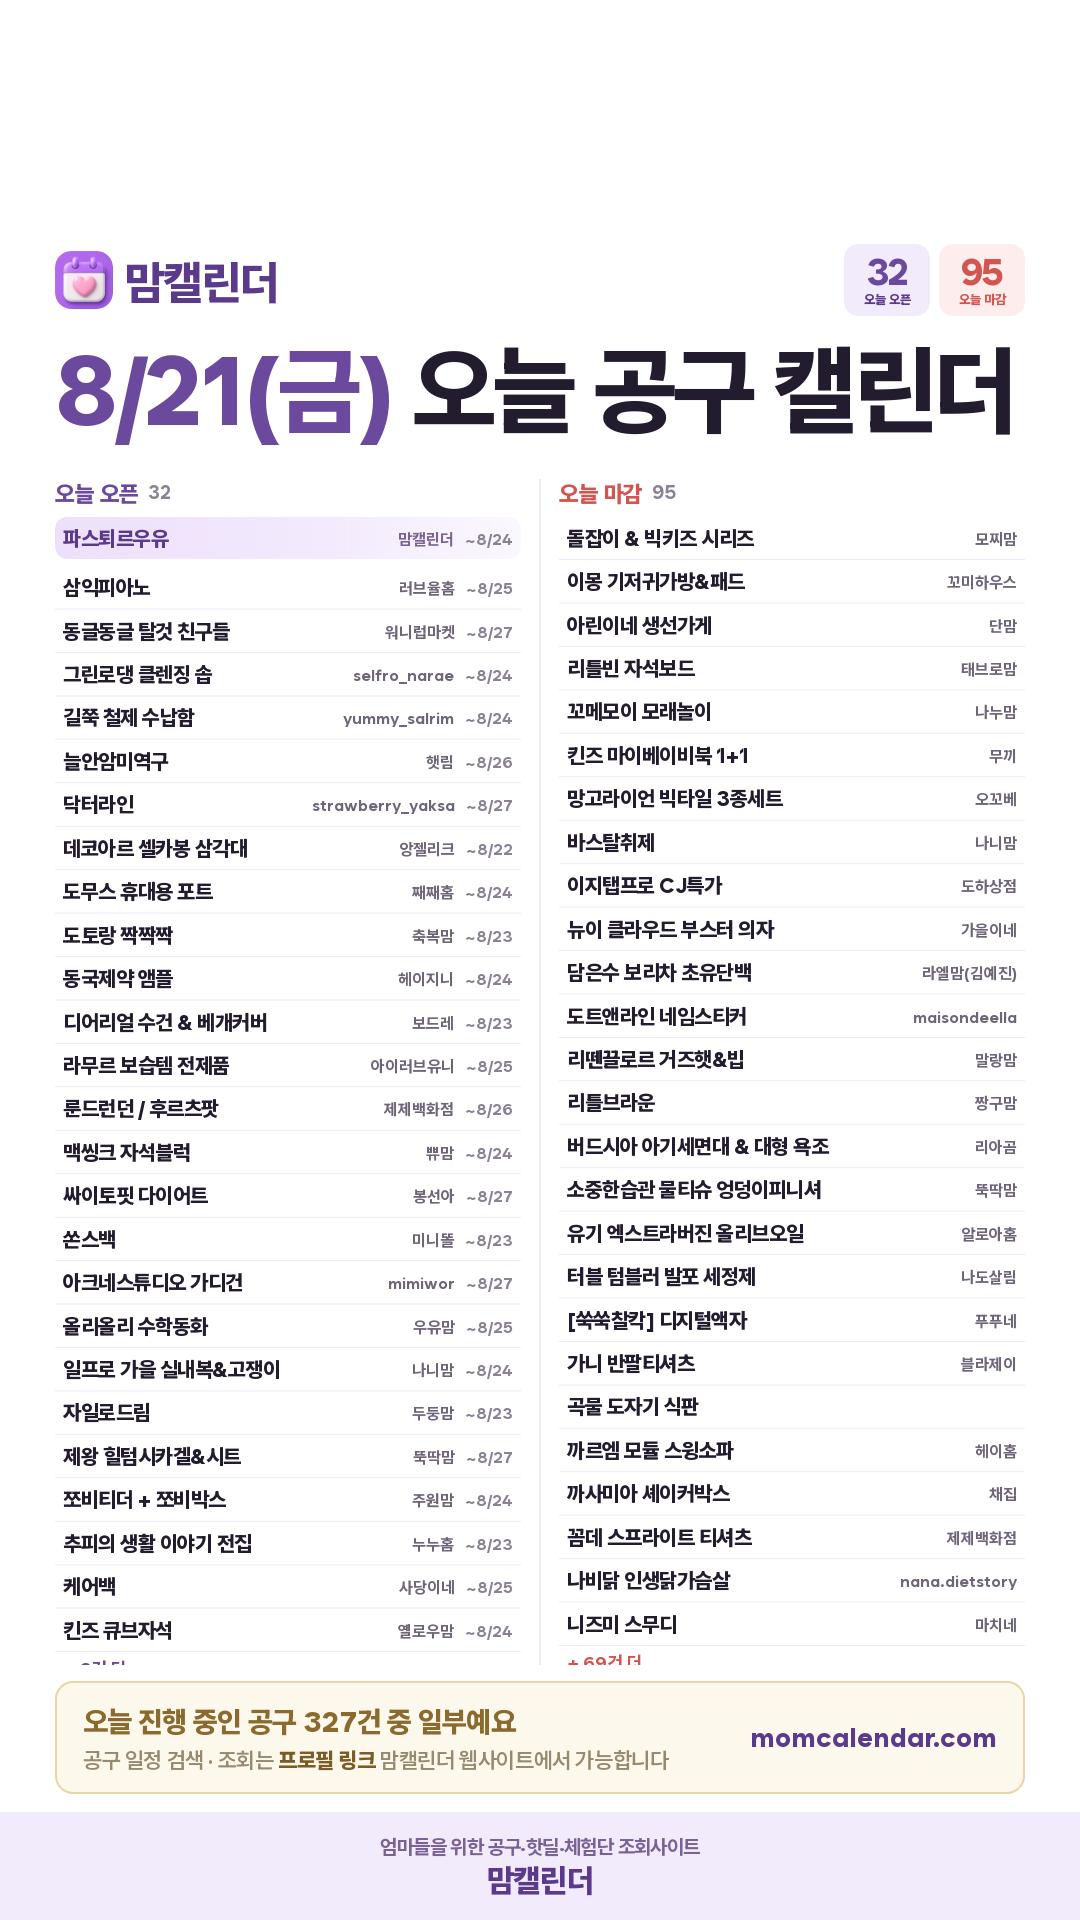
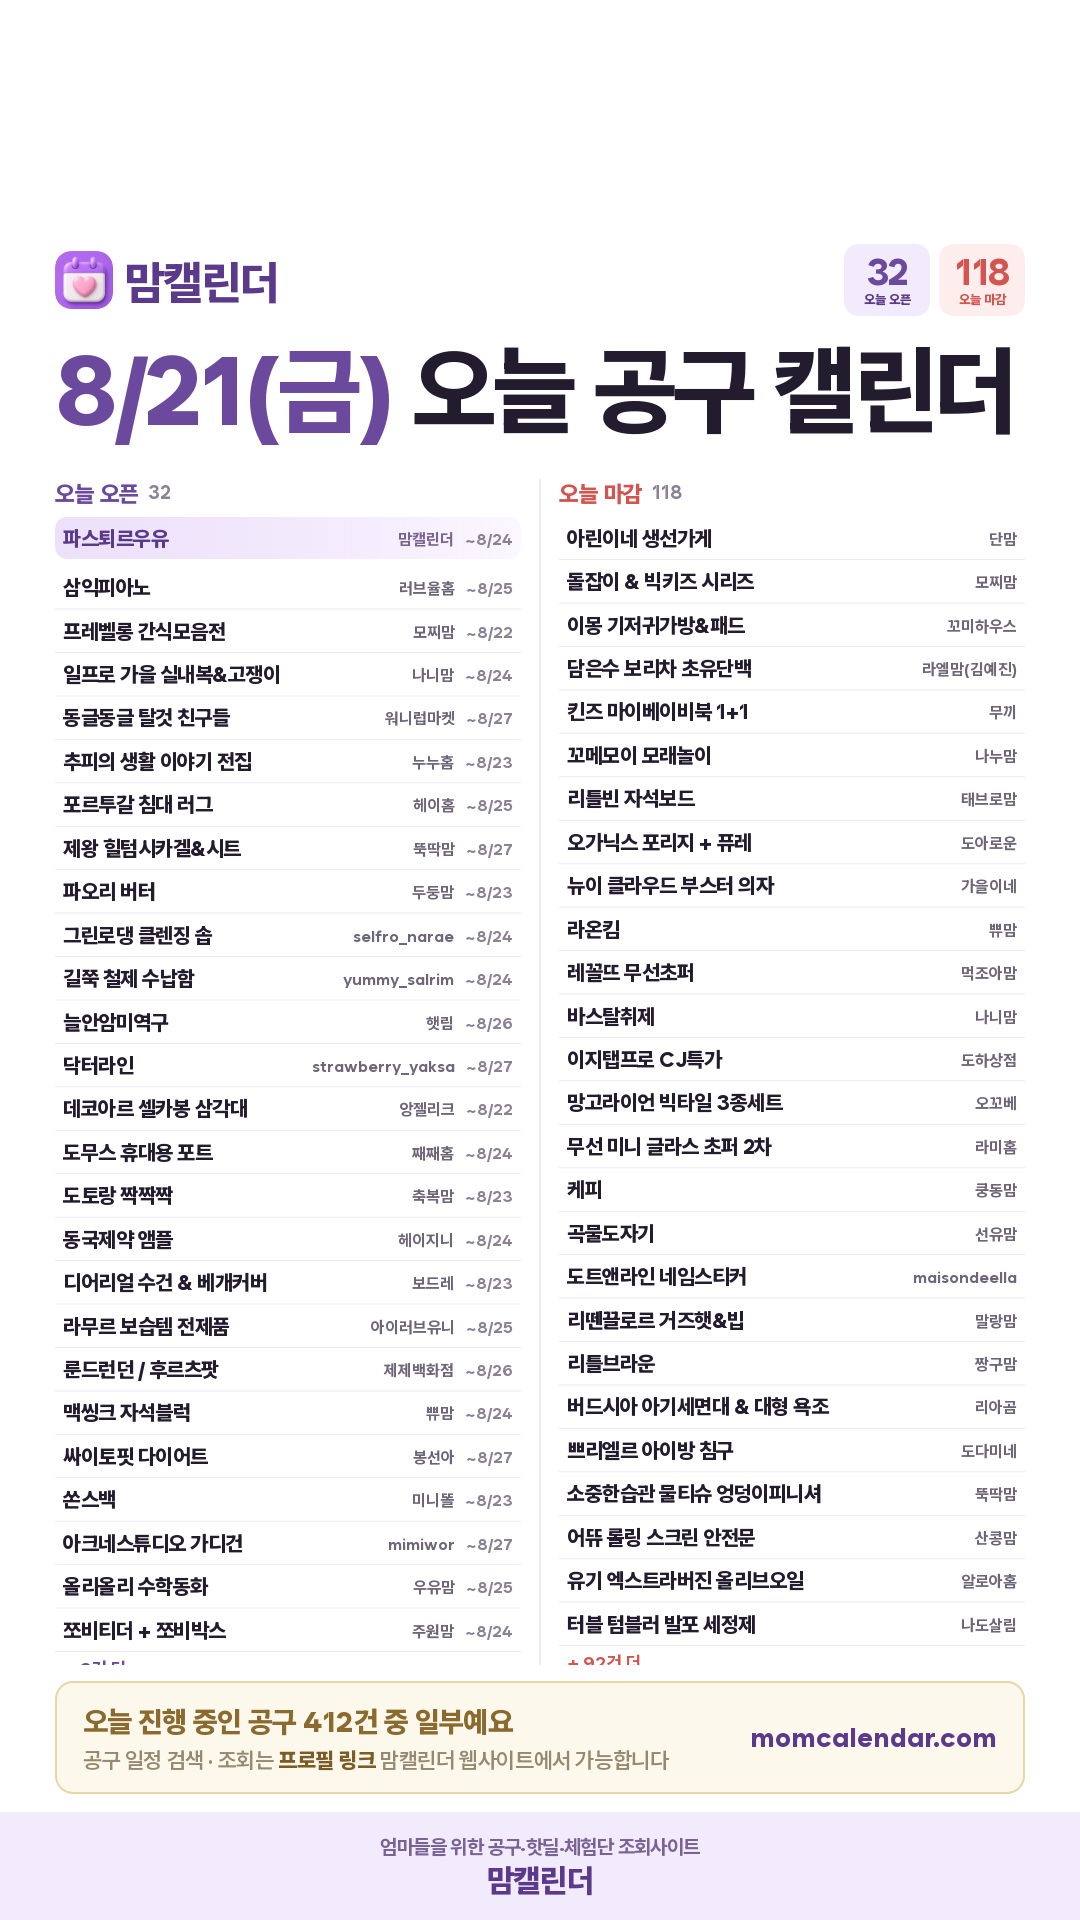
아침 인스타 카드 (2026-08-21)

diff --git a/daily/2026-08-21.html b/daily/2026-08-21.html
@@ -19,7 +19,7 @@ textarea{width:100%;height:260px;border:1px solid #E3DCEF;border-radius:10px;pad
 .todo p{font-size:12.5px;color:#6B6379;line-height:1.75;margin-top:6px}
 .todo a{color:#5B2E8C;font-weight:700}
 </style></head><body>
-<div class="hd"><div class="wrap"><h1>8월 21일(금) 인스타 카드</h1><p>오픈 32건 · 마감 95건</p></div></div>
+<div class="hd"><div class="wrap"><h1>8월 21일(금) 인스타 카드</h1><p>오픈 32건 · 마감 118건</p></div></div>
 <div class="wrap">
   
   <div class="card"><img src="./2026-08-21.png" alt="오늘 공구 카드"></div>
@@ -30,7 +30,7 @@ textarea{width:100%;height:260px;border:1px solid #E3DCEF;border-radius:10px;pad
 맘캘린더에서 공유드리는
 8월 21일(금) 오늘 공구 캘린더
 
-오픈 30건 · 마감 65건
+오픈 30건 · 마감 84건
 
 ━━━━━━━━━━━━━━
 
@@ -39,7 +39,13 @@ textarea{width:100%;height:260px;border:1px solid #E3DCEF;border-radius:10px;pad
 
 🔓 오늘 오픈하는 공구
 · 삼익피아노 — 러브율홈 (~8/25)
+· 프레벨롱 간식모음전 — 모찌맘 (~8/22)
+· 일프로 가을 실내복&amp;고쟁이 — 나니맘 (~8/24)
 · 동글동글 자동차&amp;우리는 탈것 친구들 — 워니럽마켓 (~8/27)
+· 추피의 생활 이야기 전집 — 누누홈 (~8/23)
+· 포르투갈 침대 러그 — 헤이홈 (~8/25)
+· 제왕 힐텀시카겔&amp;시트 — 뚝딱맘 (~8/27)
+· 파오리 버터 — 두둥맘 (~8/23)
 · 그린로댕 퍼프·스파츌라·클렌징 솝 — selfro_narae (~8/24)
 · 길쭉 철제 수납함 — yummy_salrim (~8/24)
 · 늘안암미역구 — 햇림 (~8/26)
@@ -56,59 +62,51 @@ textarea{width:100%;height:260px;border:1px solid #E3DCEF;border-radius:10px;pad
 · 쏜스백 — 미니똘 (~8/23)
 · 아크네스튜디오 케바 가디건 — mimiwor (~8/27)
 · 올리올리 하나둘셋 수학동화 — 우유맘 (~8/25)
-· 일프로 가을 실내복&amp;고쟁이 — 나니맘 (~8/24)
-· 자일로드림 — 두둥맘 (~8/23)
-· 제왕 힐텀시카겔&amp;시트 — 뚝딱맘 (~8/27)
 · 쪼비티더 + 쪼비박스 — 주원맘 (~8/24)
-· 추피의 생활 이야기 전집 — 누누홈 (~8/23)
 · 케어백 — 사당이네 (~8/25)
 · 킨즈 큐브자석 — 옐로우맘 (~8/24)
 · 터블 텀블러 세정제 — 리아곰 (~8/24)
-· 포르투갈 침대 러그 — 헤이홈 (~8/25)
-· 프레벨롱 간식모음전 — 모찌맘 (~8/22)
 · BAS &lt;바스탈취제&gt; — 리틀주니 (~8/25)
 
 ⏰ 오늘 마감하는 공구
+· 아린이네 생선가게 — 단맘
 · 돌잡이 &amp; 빅키즈 시리즈 — 모찌맘
 · 이몽 기저귀가방&amp;패드 — 꼬미하우스
-· 아린이네 생선가게 — 단맘
-· 리틀빈 자석보드 — 태브로맘
-· 꼬메모이 모래놀이 — 나누맘
+· 담은수 채수·맛간장·보리차·초유단백 — 라엘맘(김예진)
 · 킨즈 마이베이비북 1+1 — 무끼
-· 망고라이언 빅타일 3종세트 — 오꼬베
+· 꼬메모이 모래놀이 — 나누맘
+· 리틀빈 자석보드 — 태브로맘
+· 오가닉스 포리지 + 퓨레 — 도아로운
+· 뉴이 클라우드 부스터 의자 — 가을이네
+· 라온킴 — 쀼맘
+· 레꼴뜨 무선초퍼 — 먹조아맘
 · 바스탈취제 — 나니맘
 · 이지탭프로 CJ특가 — 도하상점
-· 뉴이 클라우드 부스터 의자 — 가을이네
-· 담은수 채수·맛간장·보리차·초유단백 — 라엘맘(김예진)
+· 망고라이언 빅타일 3종세트 — 오꼬베
+· 무선 미니 글라스 초퍼 2차 — 라미홈
+· 케피 — 쿵동맘
+· 곡물도자기 — 선유맘
 · 도트앤라인 네임스티커 — maisondeella
 · 리뗀끌로르 거즈햇&amp;빕 — 말랑맘
 · 리틀브라운 — 짱구맘
 · 버드시아 아기세면대 &amp; 대형 욕조 — 리아곰
+· 쁘리엘르 아이방 침구 — 도다미네
 · 소중한습관 물티슈 엉덩이피니셔 — 뚝딱맘
+· 어뜌 롤링 스크린 안전문 — 산콩맘
 · 유기 무산 곱창김·엑스트라버진 올리브오일 — 알로아홈
 · 터블 텀블러 발포 세정제 — 나도살림
+· EEA — lingua_mum
 · [쑥쑥찰칵] 디지털액자 — 푸푸네
+· 2026 NEW 최신상 마이바디 진짜 보기 드문 영어-한국어 이중 언어 인체 과학 동화 — 맘조이
+· 29cm*고유 냉감 — 히히스카이라운지
+· 3만원대 무쇠그릇 — sallim_gajang
 · 가니 반팔티셔츠 — 블라제이
-· 곡물 도자기 식판 — 
+· 가장 맛있는 아르기닌 — eunha__yak
 · 까르엠 모듈 스윙소파 — 헤이홈
 · 까사미아 셰이커박스 — 채집
 · 꼼데 스프라이트 티셔츠 — 제제백화점
 · 나비닭 공구촉촉 부드러운 인생닭가슴살 — nana.dietstory
-· 니즈미 스무디 — 마치네
-· 라온킴 — 쀼맘
-· 라이크앤라이크 카시트 커버 — 안감자
-· 레꼴뜨 무선초퍼 — 먹조아맘
-· 레드바이옴 리부트샷 — 잼잼키친
-· 레딕센 두피스왑 &amp; 헤어팩 — 로라
-· 로알벌꿀고구마 — 우동맘
-· 리라그루브·청키 — yoonyoon.life
-· 리오마레 참치 &lt;강추&gt; — 리틀주니
-· 링티아이 2차 — 승빈맘
-· 명희홈쿡 떡갈비 — 명희홈쿡
-· 무선 미니 글라스 초퍼 2차 — 라미홈
-· 미라클2단찜기 — miracle_eunju119
-· 미스티파이 행주 — minhi.house
-…나머지 26건은 맘캘린더 사이트에서 보실 수 있어요
+…나머지 47건은 맘캘린더 사이트에서 보실 수 있어요
 
 ━━━━━━━━━━━━━━
 
@@ -121,7 +119,7 @@ textarea{width:100%;height:260px;border:1px solid #E3DCEF;border-radius:10px;pad
 ⚠ 공구 일정은 판매자 사정에 따라 변경되거나 조기 마감될 수 있어요. 구매 전에 해당 셀러 계정에서 한 번 더 확인해 주세요.
 
 #맘캘린더 #공구일정 #육아공구 #육아용품 #책육아 #먹거리공구 #살림템 #교구 #유모차 #영양제 #아기용품 #유아용품</textarea>
-    <div class="meta">2178자 / 2200자 · 오픈 29/29 · 마감 39/65</div>
+    <div class="meta">2176자 / 2200자 · 오픈 29/29 · 마감 37/84</div>
     <button class="btn btn2" onclick="cp('cap','캡션')">캡션 복사</button>
   </div>
   <div class="card">
@@ -140,7 +138,7 @@ textarea{width:100%;height:260px;border:1px solid #E3DCEF;border-radius:10px;pad
 ─────────────
 
 8월 21일(금), 오늘 새로 오픈하는 인스타 공구일정 32건을 카테고리별로 정리했어요.
-오늘 마감되는 공구도 96건 있으니 놓치지 마세요.
+오늘 마감되는 공구도 118건 있으니 놓치지 마세요.
 
 (여기에 저장해 두신 카드 사진을 넣어주세요)
 
@@ -194,19 +192,26 @@ textarea{width:100%;height:260px;border:1px solid #E3DCEF;border-radius:10px;pad
 [인테리어]
 · 포르투갈 침대 러그 — 헤이홈 (~8/25 마감)
 
-■ 오늘 마감하는 공구 96건
+■ 오늘 마감하는 공구 118건
 · (단독) 팸퍼스 x CJ — 두둥맘
 · [쑥쑥찰칵] 디지털액자 — 푸푸네
+· 2026 NEW 최신상 마이바디 진짜 보기 드문 영어-한국어 이중 언어 인체 과학 동화 — 맘조이
+· 29cm*고유 냉감 — 히히스카이라운지
+· 3만원대 무쇠그릇 — sallim_gajang
 · EEA — lingua_mum
 · 가니 반팔티셔츠 — 블라제이
+· 가장 맛있는 아르기닌 — eunha__yak
 · 곡물 도자기 식판 — 
 · 곡물도자기 — 선유맘
 · 국내유일 유기농 무무쿡 — 모찌맘
+· 기저귀가방&amp; 기저귀패드 이몽 — 꼬미하우스
 · 까르엠 모듈 스윙소파 — 헤이홈
 · 까사미아 셰이커박스 — 채집
 · 꼬메모이 모래놀이 — 나누맘
 · 꼼데 스프라이트 티셔츠 — 제제백화점
 · 나비닭 공구촉촉 부드러운 인생닭가슴살 — nana.dietstory
+· 넘버블록스 스마트블록 / 벽시계 등 — 월간서숲
+· 네임스탬프 — 뚜미니네
 · 뉴이 클라우드 부스터 의자 — 가을이네
 · 니즈미 스무디 — 마치네
 · 닥터브레드 쌀빵 — 
@@ -226,7 +231,6 @@ textarea{width:100%;height:260px;border:1px solid #E3DCEF;border-radius:10px;pad
 · 리틀브라운 — 짱구맘
 · 리틀빈 자석보드 — 태브로맘
 · 링티아이 2차 — 승빈맘
-· 마이키즈 — 유주맘(박은영)
 · 망고라이언 빅타일 3종세트 — 오꼬베
 · 망고라이언 자존감 올림 동화 — 
 · 명희홈쿡 떡갈비 — 명희홈쿡
@@ -244,11 +248,14 @@ textarea{width:100%;height:260px;border:1px solid #E3DCEF;border-radius:10px;pad
 · 베이비 마더구스 — 
 · 블루지 핸드스크럽 — 앙젤리크
 · 비연담 국 4종 — @cocobebe___
+· 뽀로로 피자 • 쿠키 만들기 밀키트 — _riyul_mom
 · 쁘리엘르 아이방 침구 — 도다미네
 · 상상아띠 큐브 트랙 전동 기차세트 — 워니럽마켓
 · 색연필 빗자루세트 앵콜 — 위쓰담북
 · 서울대 약콩두유 — 유자몽
+· 소보루 한복 최초 — 투하맘
 · 소중한습관 물티슈 엉덩이피니셔 — 뚝딱맘
+· 소핀 세탁조 클리너 — 콩라이프
 · 솔리디아 1등급 의료기기 3차 — ryeonga_fit
 · 시크릿키즈 유아 이너웨어 — 채쓰맘
 · 시크릿템 — shonyroom
@@ -258,8 +265,11 @@ textarea{width:100%;height:260px;border:1px solid #E3DCEF;border-radius:10px;pad
 · 아이앤어스 안심캡슐세제 — 명희홈쿡
 · 아카라 도어락 — 유부림
 · 알레피아 — 유한나
+· 애플스푼 배도라지 — 우둥맘
+· 약셀 어린이 스테인리스 안전칼 &amp; 도마 — 두둥맘
 · 어뜌 롤링 스크린 안전문 — 산콩맘
 · 엉클디 아기 책상&amp;의자 — 
+· 엉클디 티토 아기책상 의자 — 뽀물맘
 · 에듀플레이어 — 
 · 엠락틴 — 유한나
 · 오가닉스 포리지 + 퓨레 — 도아로운
@@ -267,27 +277,37 @@ textarea{width:100%;height:260px;border:1px solid #E3DCEF;border-radius:10px;pad
 · 온가족 화장품라무르 — 종달맘
 · 올리올리 하나둘셋 수학동화 — 
 · 옴모크레용 — 쀼맘
+· 우리밀과자 골라담기 — 도하세하네
 · 원로브 캡슐세제 — 
 · 유기 무산 곱창김·엑스트라버진 올리브오일 — 알로아홈
+· 유아 레벨 1 보드게임 — 또니맘
 · 이몽 기저귀가방&amp;패드 — 꼬미하우스
+· 이지앤프리 튼튼이 웨이브킵 1700m — 따리따리
 · 이지탭프로 CJ특가 — 도하상점
 · 자코바찌 유기농 발사믹 — 진명테이블
 · 정읍 줄무늬 씨제로 수박 2차 — 몰리짱
 · 조이앤원더 야외용분필 2종 — 
+· 주니 텀블러 모음전 — yunseo.rang
 · 컬러트리트먼트 — 원더아나
 · 케피 — 쿵동맘
 · 케피 버블클렌저 — 
 · 키즈망고 망고샌드&amp;물감놀이 — 
+· 키즈에이원 세계명작 한정수량 공구 — 카롱맘
 · 킨즈 마이베이비북 1+1 — 무끼
+· 택플로우 욕실 매트 — 우아맘
+· 터블 발포세정제 — 나도살림
 · 터블 텀블러 발포 세정제 — 나도살림
 · 텀블러장난감99.9%발포세정제 터블 — 하루맘
+· 투에이치 테이프형 세정제거제 — gamgam_home
 · 팸퍼스 기저귀 — 두둥맘
 · 폴디 주니어 카시트 — 
+· 푸른들 동결건조국&amp;후리가케 — 강윤맘
 · 푸른들 후리가케&amp;동결건조국 — 
 · 퓨리톡스 — 윤우가자라는집
 · 퓨어닷 아기수전 — 
 · 프리맘 플레이하우스 — 둘찌맘
 · 피토메르 하루특가 — 이유데이
+· 해양심층수 천년동안 베이비워터 L 1+1 18개 — e.aniii
 · 향유 국산 유기농 아기 참기름&amp;들기름 — 
 · 허그파파 아기띠 — 뚝딱맘
 · 헤리터 스텐 테이블매트 — 카루셀리

diff --git a/daily/index.html b/daily/index.html
@@ -1,1 +1,1 @@
-<!DOCTYPE html><meta charset="UTF-8"><meta http-equiv="refresh" content="0;url=./2026-08-20.html">
+<!DOCTYPE html><meta charset="UTF-8"><meta http-equiv="refresh" content="0;url=./2026-08-21.html">
